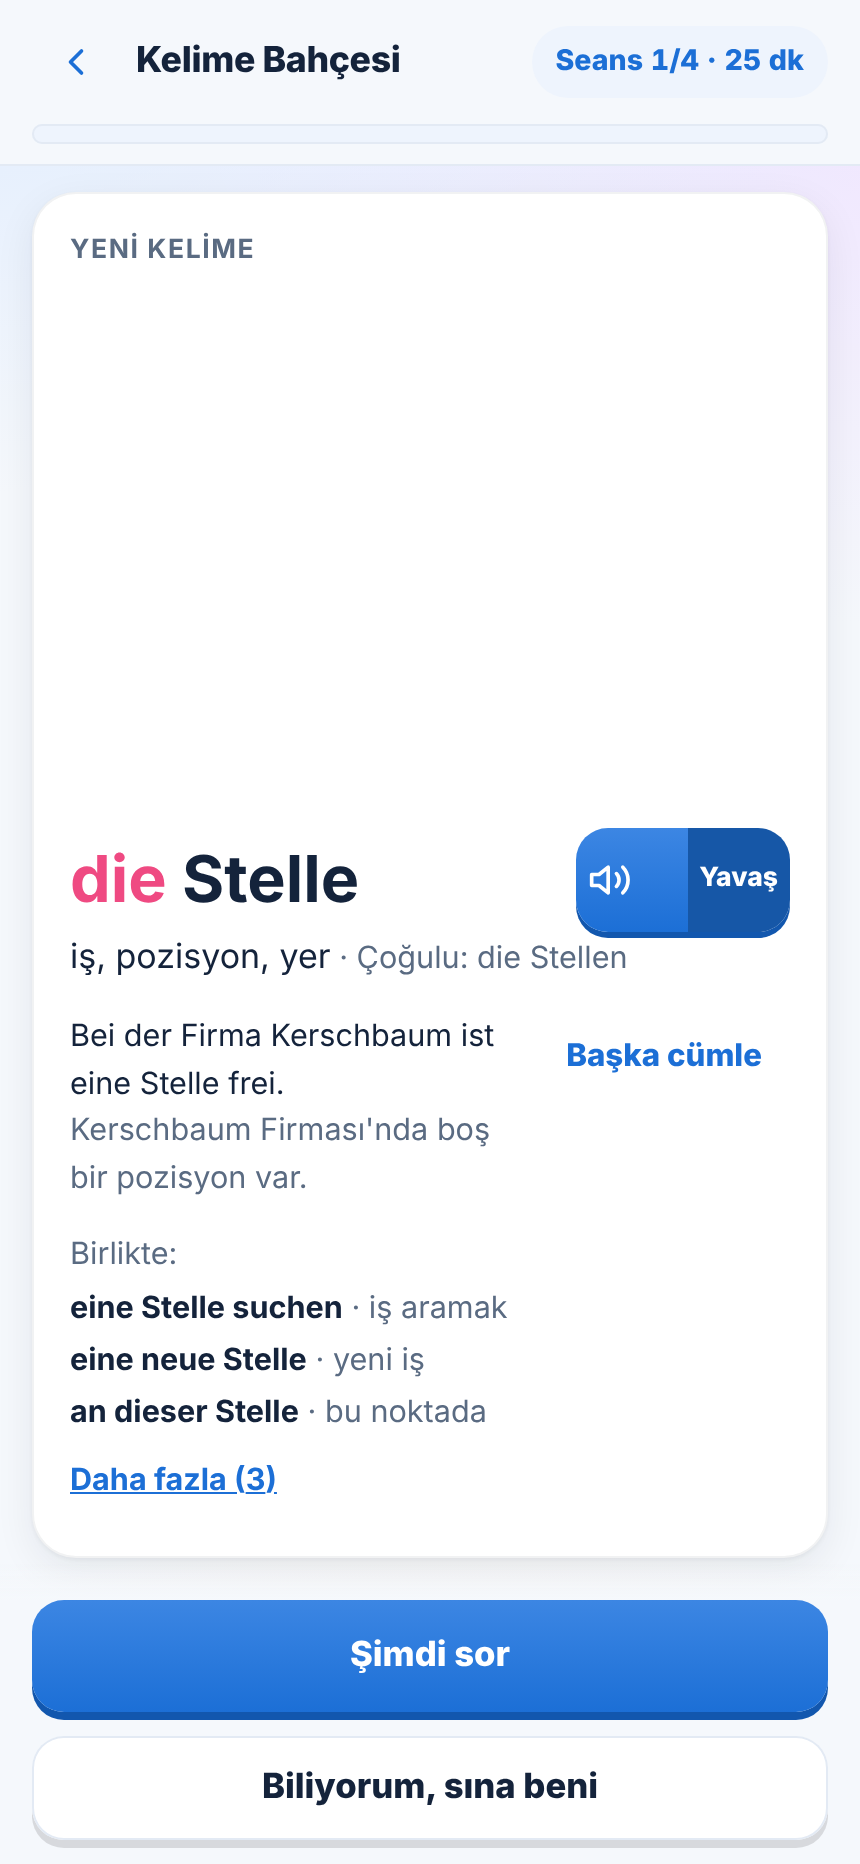
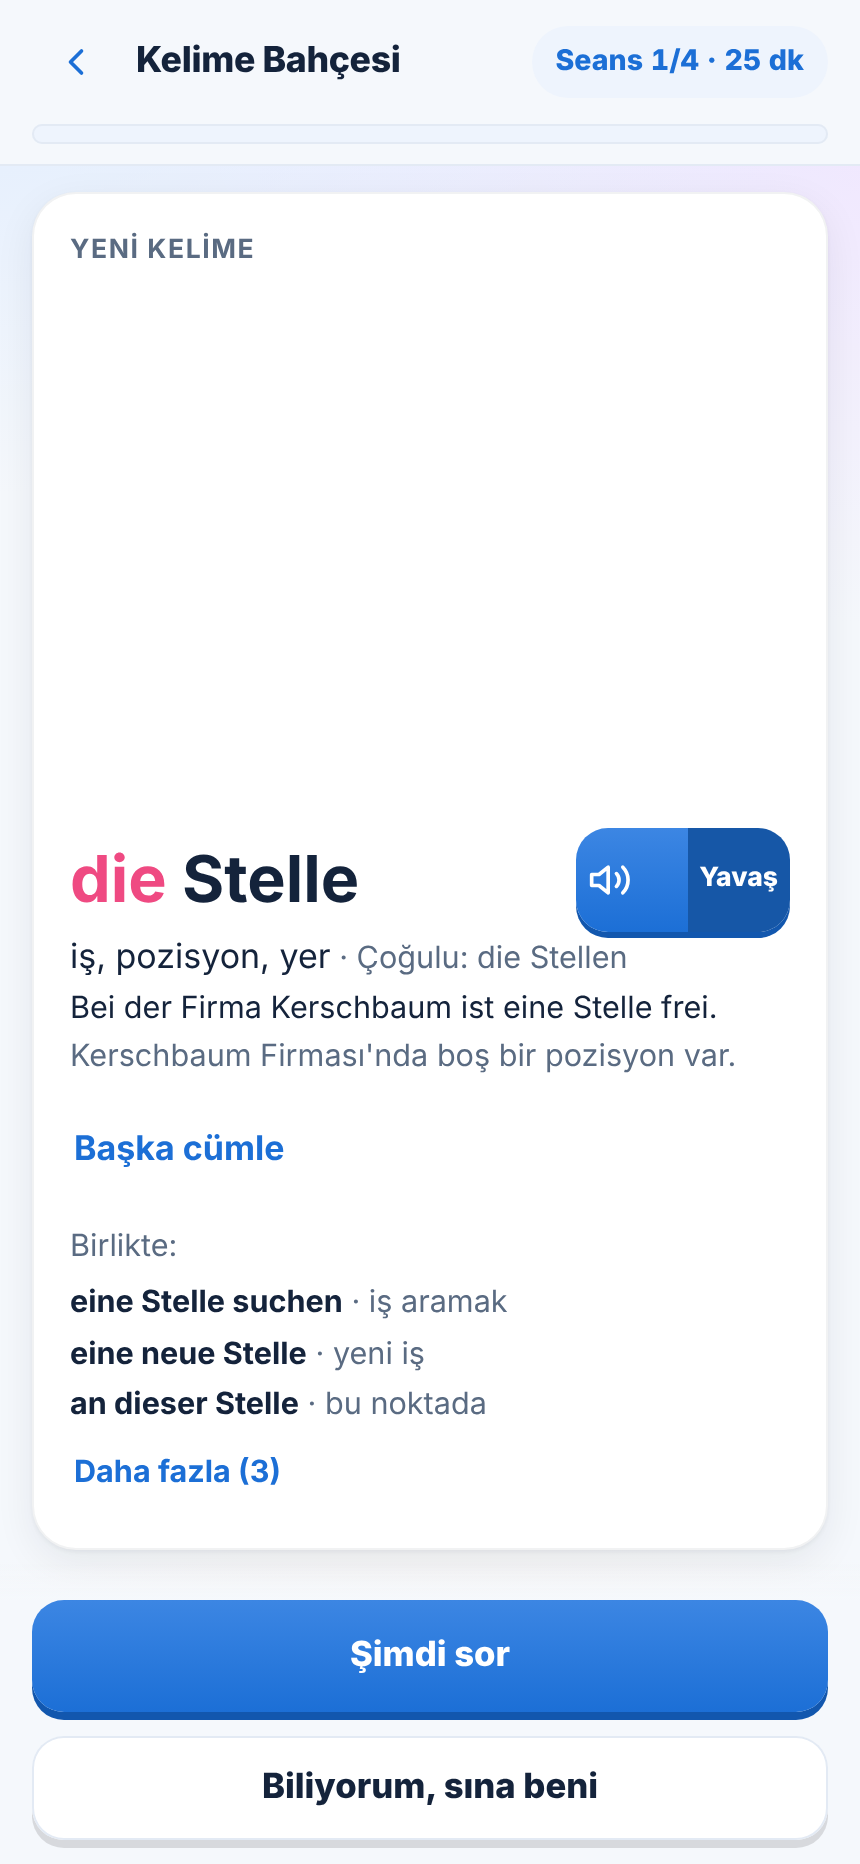
v2: tanıtım kartı — örnek cümle tam genişlik, ikincil eylem üslubu, Daha fazla görünürlüğü (PM 7026866757)
- Almanca örnek cümle hecelenmez, tam genişlikte; 'Başka cümle' Türkçe satırın altında kendi satırında
- 'Başka cümle' ve 'Daha fazla' aynı .ikincil-eylem üslubunda (44 pt, altı çizgisiz)
- 'Daha fazla' açılınca son satır düğme alanının üstüne kaydırılır (scroll-margin + scrollIntoView)
- e2e v2_tanitim_sigar: üç maddenin denetimi

Claude-Session: https://claude.ai/code/session_016gishG3oMjbKiLi4Fij94B

Changed region(s): [[0.0605, 0.529, 0.8767, 0.809]]

diff --git a/web/src/screens/Garden.tsx b/web/src/screens/Garden.tsx
@@ -211,7 +211,7 @@ function Esdizimler({ l, test }: { l: Lexeme; test?: string }) {
   return (
     <div class="small" data-test={test}><span class="muted">Birlikte:</span>
       <ul class="esdizim-liste">{acik.map(satir)}</ul>
-      {kapali.length > 0 && <details class="esdizim-daha" data-test="esdizim-daha"><summary class="linkbtn">Daha fazla ({kapali.length})</summary><ul class="esdizim-liste">{kapali.map(satir)}</ul></details>}
+      {kapali.length > 0 && <details class="esdizim-daha" data-test="esdizim-daha" onToggle={(e) => { const d = e.currentTarget as HTMLDetailsElement; if (d.open) d.querySelector("li:last-child")?.scrollIntoView({ block: "nearest", behavior: "smooth" }); }}><summary class="ikincil-eylem">Daha fazla ({kapali.length})</summary><ul class="esdizim-liste">{kapali.map(satir)}</ul></details>}
     </div>
   );
 }
@@ -245,7 +245,7 @@ function Question({ q, l, all, yakin, gorulen, onDone: bitir, onSina, onCevap, o
   const fotoEx = exi, fotoOrnek = ex;
   const show = (r: Result) => { if (sure.current === null) sure.current = Date.now() - basla.t; onCevap?.(); setRes(r); haptic(r.ok ? "success" : "error"); };
   const next = (o: Outcome | null) => onDone(res || { ok: false }, o, exi);
-  const baska = (n: number) => n > 1 ? <button class="btn sm ghost" data-test="baska-cumle" onClick={() => setExi((x) => x + 1)}>Başka cümle</button> : null;
+  const baska = (n: number) => n > 1 ? <button class="ikincil-eylem" data-test="baska-cumle" onClick={() => setExi((x) => x + 1)}>Başka cümle</button> : null;
 
   // önce duy (PM-049 tanıtım): kelime ekrana gelince bir kez okunur (inceleme #59 P2-8)
   useEffect(() => { if (intro) void speak(isNoun(l) ? `${l.art} ${l.de}` : l.de, "de", "normal"); }, [intro]);
@@ -262,10 +262,9 @@ function Question({ q, l, all, yakin, gorulen, onDone: bitir, onSina, onCevap, o
           <ListenButton text={isNoun(l) ? `${l.art} ${l.de}` : l.de} />
         </div>
         <p style={{ margin: 0 }}><span data-test="intro-tr">{l.tr}</span>{gosterilenCogul(l) && <span class="small muted cogul-satir" data-test="intro-pl"> · Çoğulu: <span lang="de">{isNoun(l) ? "die " : ""}{gosterilenCogul(l)}</span></span>}</p>
-        {ex && <div class="row" style={{ flexWrap: "nowrap", alignItems: "flex-start", gap: 8 }}>
-          <p class="small grow" data-test="intro-ex" style={{ margin: 0, minWidth: 0 }}><span lang="de">{ex.de}</span><br /><span class="muted">{ex.tr}</span></p>
-          {baska(l.examples.length)}
-        </div>}
+        {/* PM 7026866757-1: örnek cümle tam genişlikte, hecelenmez; "Başka cümle" Türkçe satırın altında, kendi satırında */}
+        {ex && <p class="small ornek-cumle" data-test="intro-ex" style={{ margin: 0 }}><span lang="de">{ex.de}</span><br /><span class="muted">{ex.tr}</span></p>}
+        {baska(l.examples.length)}
         <Esdizimler l={l} test="intro-colloc" />
       </section>
       <ActionBar>

diff --git a/web/src/styles.css b/web/src/styles.css
@@ -670,9 +670,6 @@ svg.sandik { overflow: visible; }
 .esdizim-liste { list-style: none; margin: 4px 0 0; padding: 0; display: grid; gap: 2px; }
 /* kısa öbekler (eşdizim listesi, çoğul satırı) hecelenmez: WebKit'te her lang="de" öğesi için heceleme düzeni "Başka cümle" karesini 150 ms üstüne çıkarıyordu (#122 CI) */
 .esdizim-liste [lang="de"], .cogul-satir [lang="de"] { hyphens: manual; -webkit-hyphens: manual; }
-/* "Başka cümle": cümle değişince kartın geri kalanı kaymasın ve yeniden boyanmasın (yaygın cümle 4 satıra kadar yer ayrılır;
-   CI WebKit'te kare 150 ms'yi aşıyordu (#122) */
-[data-test=intro-ex] { min-height: calc(4 * 1.5em); }
 /* fotoğraf atfı: tek satır, soluk, altı çizgisiz; yazar "…" ile kısalır, lisans bölünmez (PM 7022084920) */
 .foto-atif { display: flex; gap: 4px; align-items: baseline; white-space: nowrap; overflow: hidden; }
 .foto-atif a { color: inherit; text-decoration: none; }
@@ -685,5 +682,11 @@ summary.ac-baslik::before { content: "▸"; color: var(--muted); transition: tra
 details[open] > summary.ac-baslik::before { transform: rotate(90deg); }
 summary.ac-baslik h2 { margin: 0; }
 /* "Daha fazla (n)" eşdizim: dokunma alanı 44 pt (PM 7024150313) */
-.esdizim-daha > summary { display: inline-flex; align-items: center; min-height: 44px; cursor: pointer; list-style: none; }
+.esdizim-daha > summary { list-style: none; }
 .esdizim-daha > summary::-webkit-details-marker { display: none; }
+/* ikincil eylem bağlantısı (PM 7026866757-2): "Başka cümle", "Daha fazla" aynı üslupta — altı çizgisiz, aynı ağırlık, 44 pt */
+.ikincil-eylem { display: inline-flex; align-items: center; align-self: flex-start; min-height: 44px; padding: 0 2px; border: 0; background: none; color: var(--accent); font: inherit; font-weight: 700; text-decoration: none; cursor: pointer; }
+/* örnek cümle tam genişlikte, kelime ortasından bölünmez (PM 7026866757-1) */
+.ornek-cumle [lang="de"] { hyphens: manual; -webkit-hyphens: manual; overflow-wrap: normal; }
+/* "Daha fazla" açılınca son satır eylem çubuğunun üstünde tam görünür (PM 7026866757-3) */
+.esdizim-daha li { scroll-margin-bottom: calc(var(--actionbar-h) + var(--safe-bottom) + 16px); }

diff --git a/tests/e2e/v2_tanitim_sigar.py b/tests/e2e/v2_tanitim_sigar.py
@@ -40,6 +40,22 @@ def main():
         ust = pg.evaluate("() => Math.min(...[...document.querySelectorAll('.actionbar button')].map((b) => b.getBoundingClientRect().top))")
         check(alt <= ust, f"tanıtım kartı düğmelere değmeden sığıyor (kart altı {round(alt)} px ≤ düğme üstü {round(ust)} px; görselli, {l['id']})")
         if shots: shot(pg, "t01-en-uzun-kart", full=False)
+        # PM 7026866757: (1) örnek cümle tam genişlikte, hecelenmez; (2) "Başka cümle" ve "Daha fazla" aynı üslup;
+        # (3) "Daha fazla" açılınca son satır görünür ve birincil düğmeyle kesişmez
+        r = pg.evaluate("""() => { const p = document.querySelector('[data-test=intro-ex]'), k = p.closest('section.card'), cs = getComputedStyle(k);
+          const ic = k.getBoundingClientRect().width - parseFloat(cs.paddingLeft) - parseFloat(cs.paddingRight);
+          return { gen: Math.round(p.getBoundingClientRect().width), ic: Math.round(ic), hy: getComputedStyle(p.querySelector('[lang=de]')).webkitHyphens || getComputedStyle(p.querySelector('[lang=de]')).hyphens }; }""")
+        check(abs(r["gen"] - r["ic"]) <= 2 and r["hy"] == "manual", f"örnek cümle tam genişlikte ve hecelenmez ({r})")
+        if pg.locator("[data-test=baska-cumle]").count() and pg.locator("[data-test=esdizim-daha]").count():
+            u = pg.evaluate("""() => ['[data-test=baska-cumle]', '[data-test=esdizim-daha] > summary'].map((q) => { const c = getComputedStyle(document.querySelector(q)); return [c.textDecorationLine, c.fontWeight, c.color]; })""")
+            check(u[0] == u[1], f"'Başka cümle' ve 'Daha fazla' aynı üslupta ({u})")
+        if pg.locator("[data-test=esdizim-daha]").count():
+            pg.click("[data-test=esdizim-daha] > summary"); pg.wait_for_timeout(900)
+            k = pg.evaluate("""() => { const li = document.querySelector('[data-test=esdizim-daha] li:last-child').getBoundingClientRect();
+              const ust = Math.min(...[...document.querySelectorAll('.actionbar button')].map((b) => b.getBoundingClientRect().top));
+              return { alt: Math.round(li.bottom), ust: Math.round(ust), gor: li.top >= 0 && li.bottom <= innerHeight }; }""")
+            check(k["gor"] and k["alt"] <= k["ust"], f"'Daha fazla' açıkken son eşdizim satırı görünür, düğmelerin üstünde ({k})")
+            if shots: shot(pg, "t02-daha-fazla-acik", full=False)
         b.close()
     srv.shutdown()
     finish()
